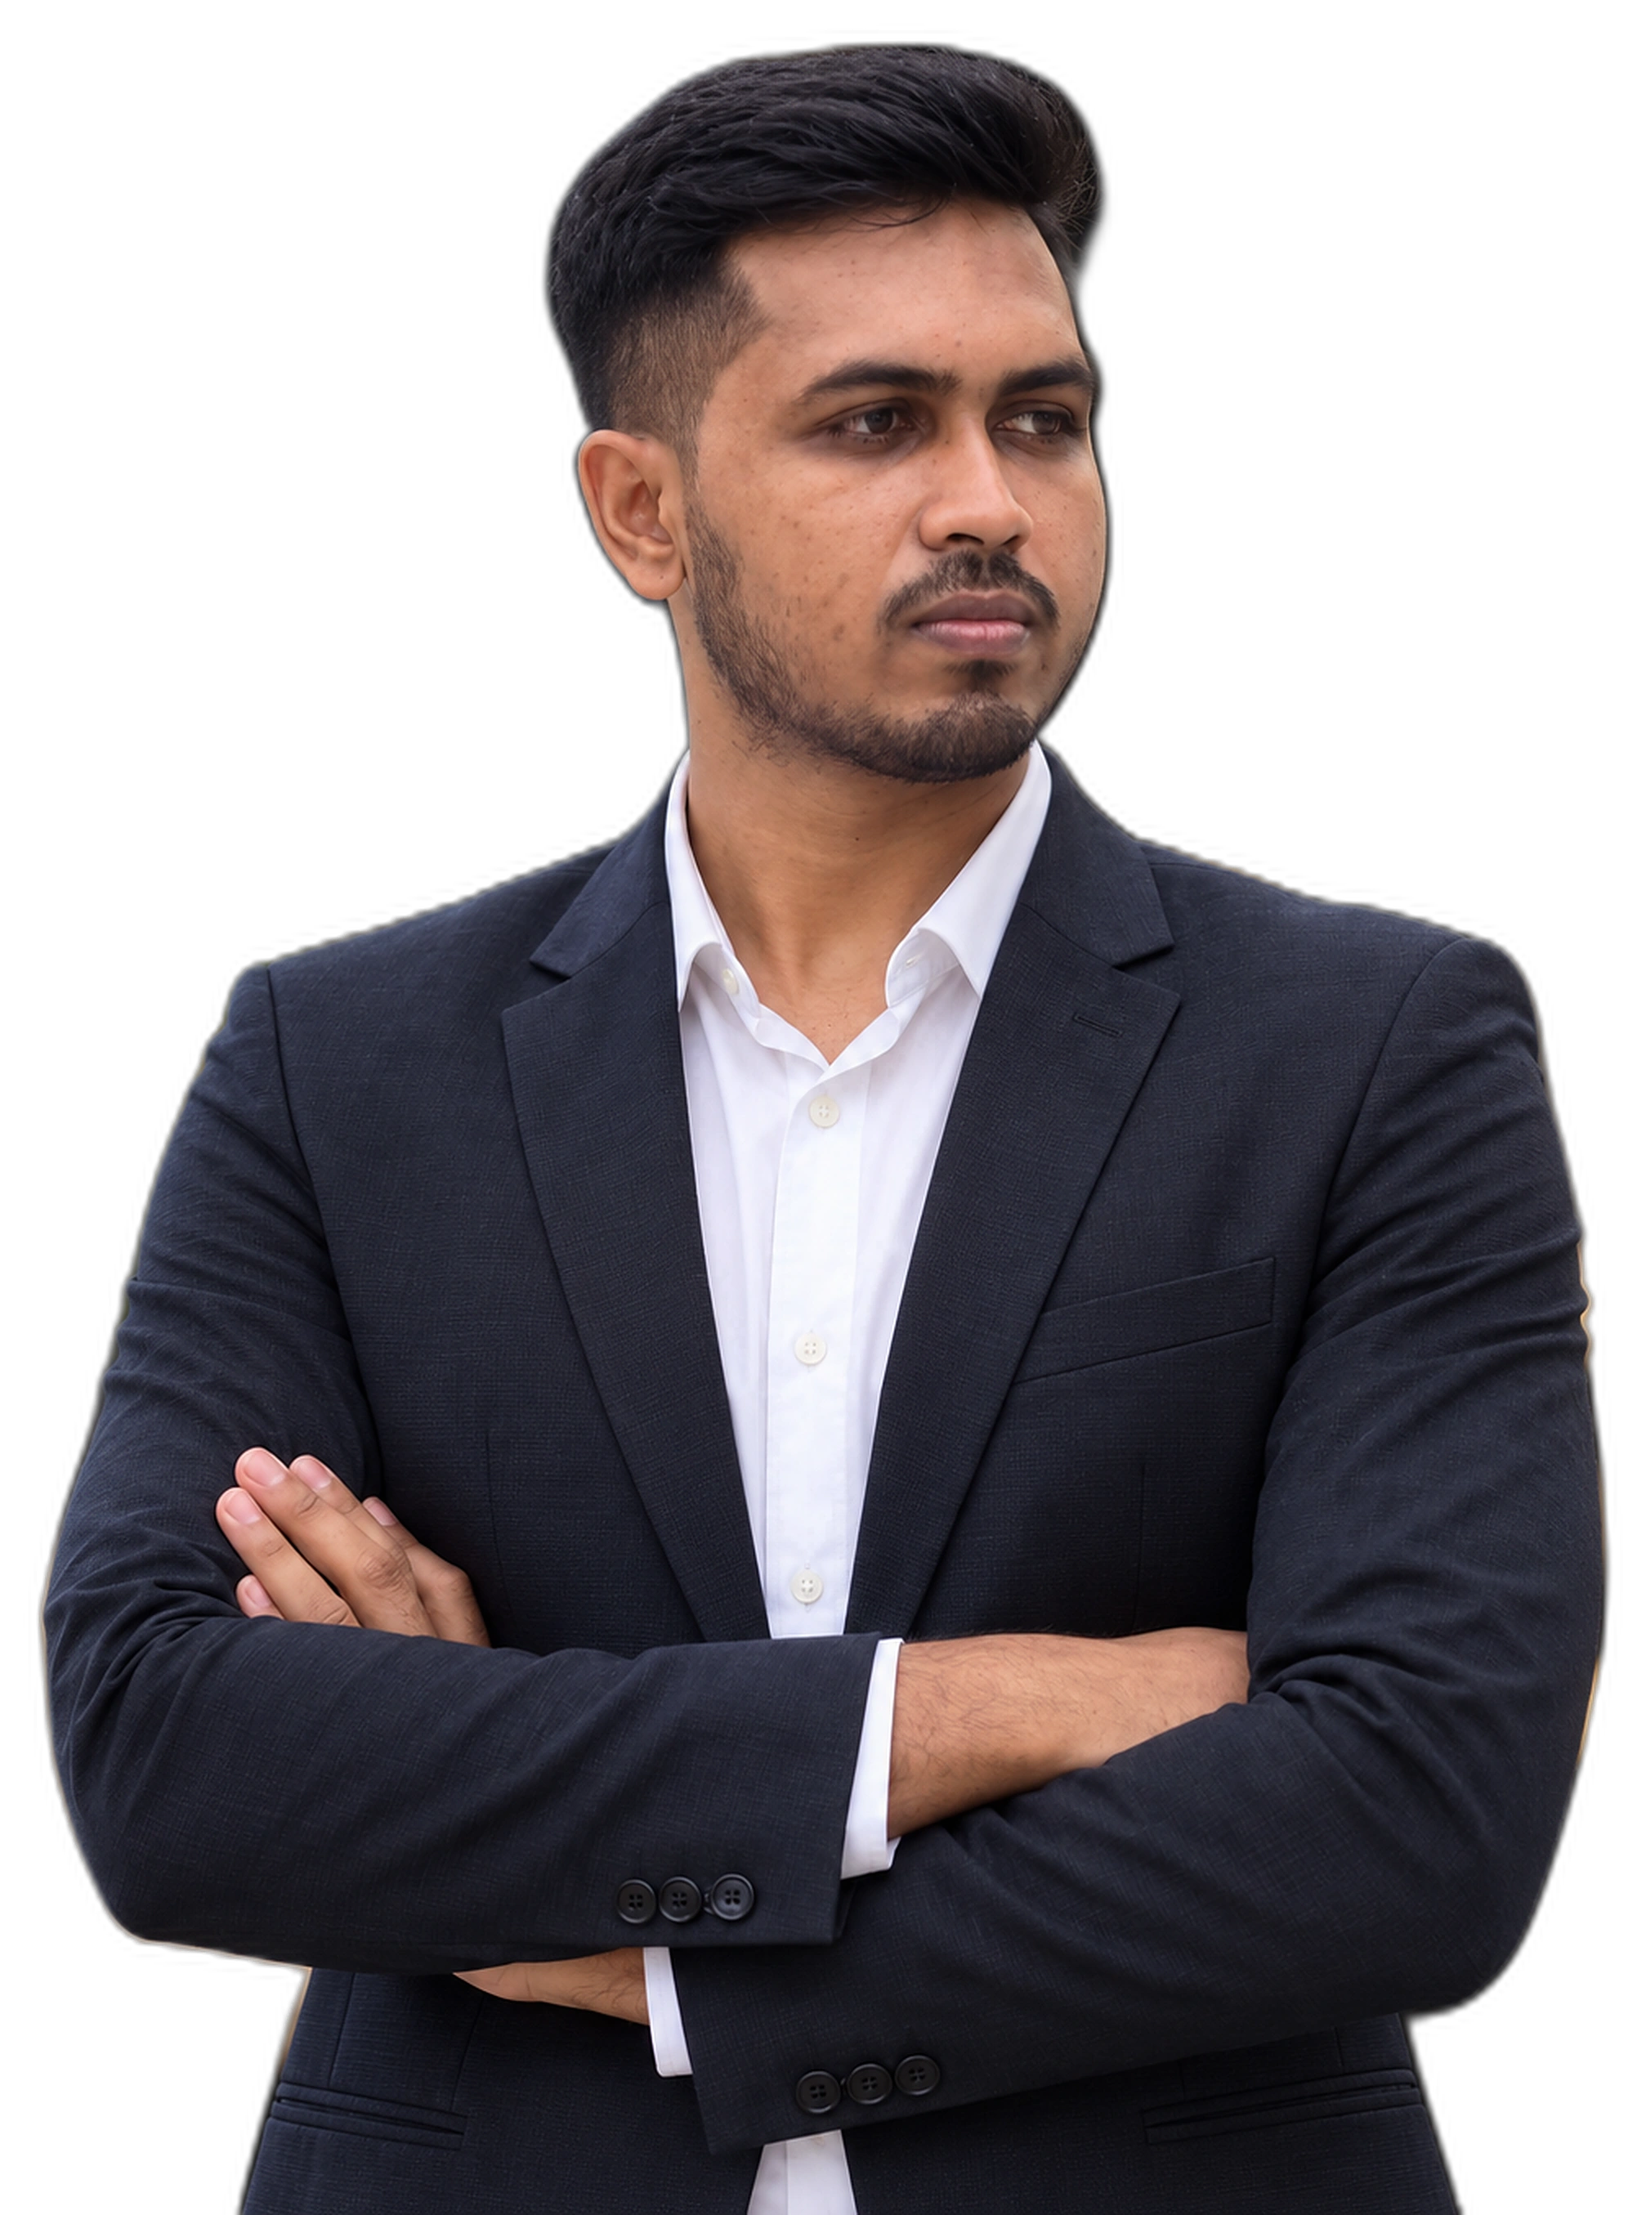
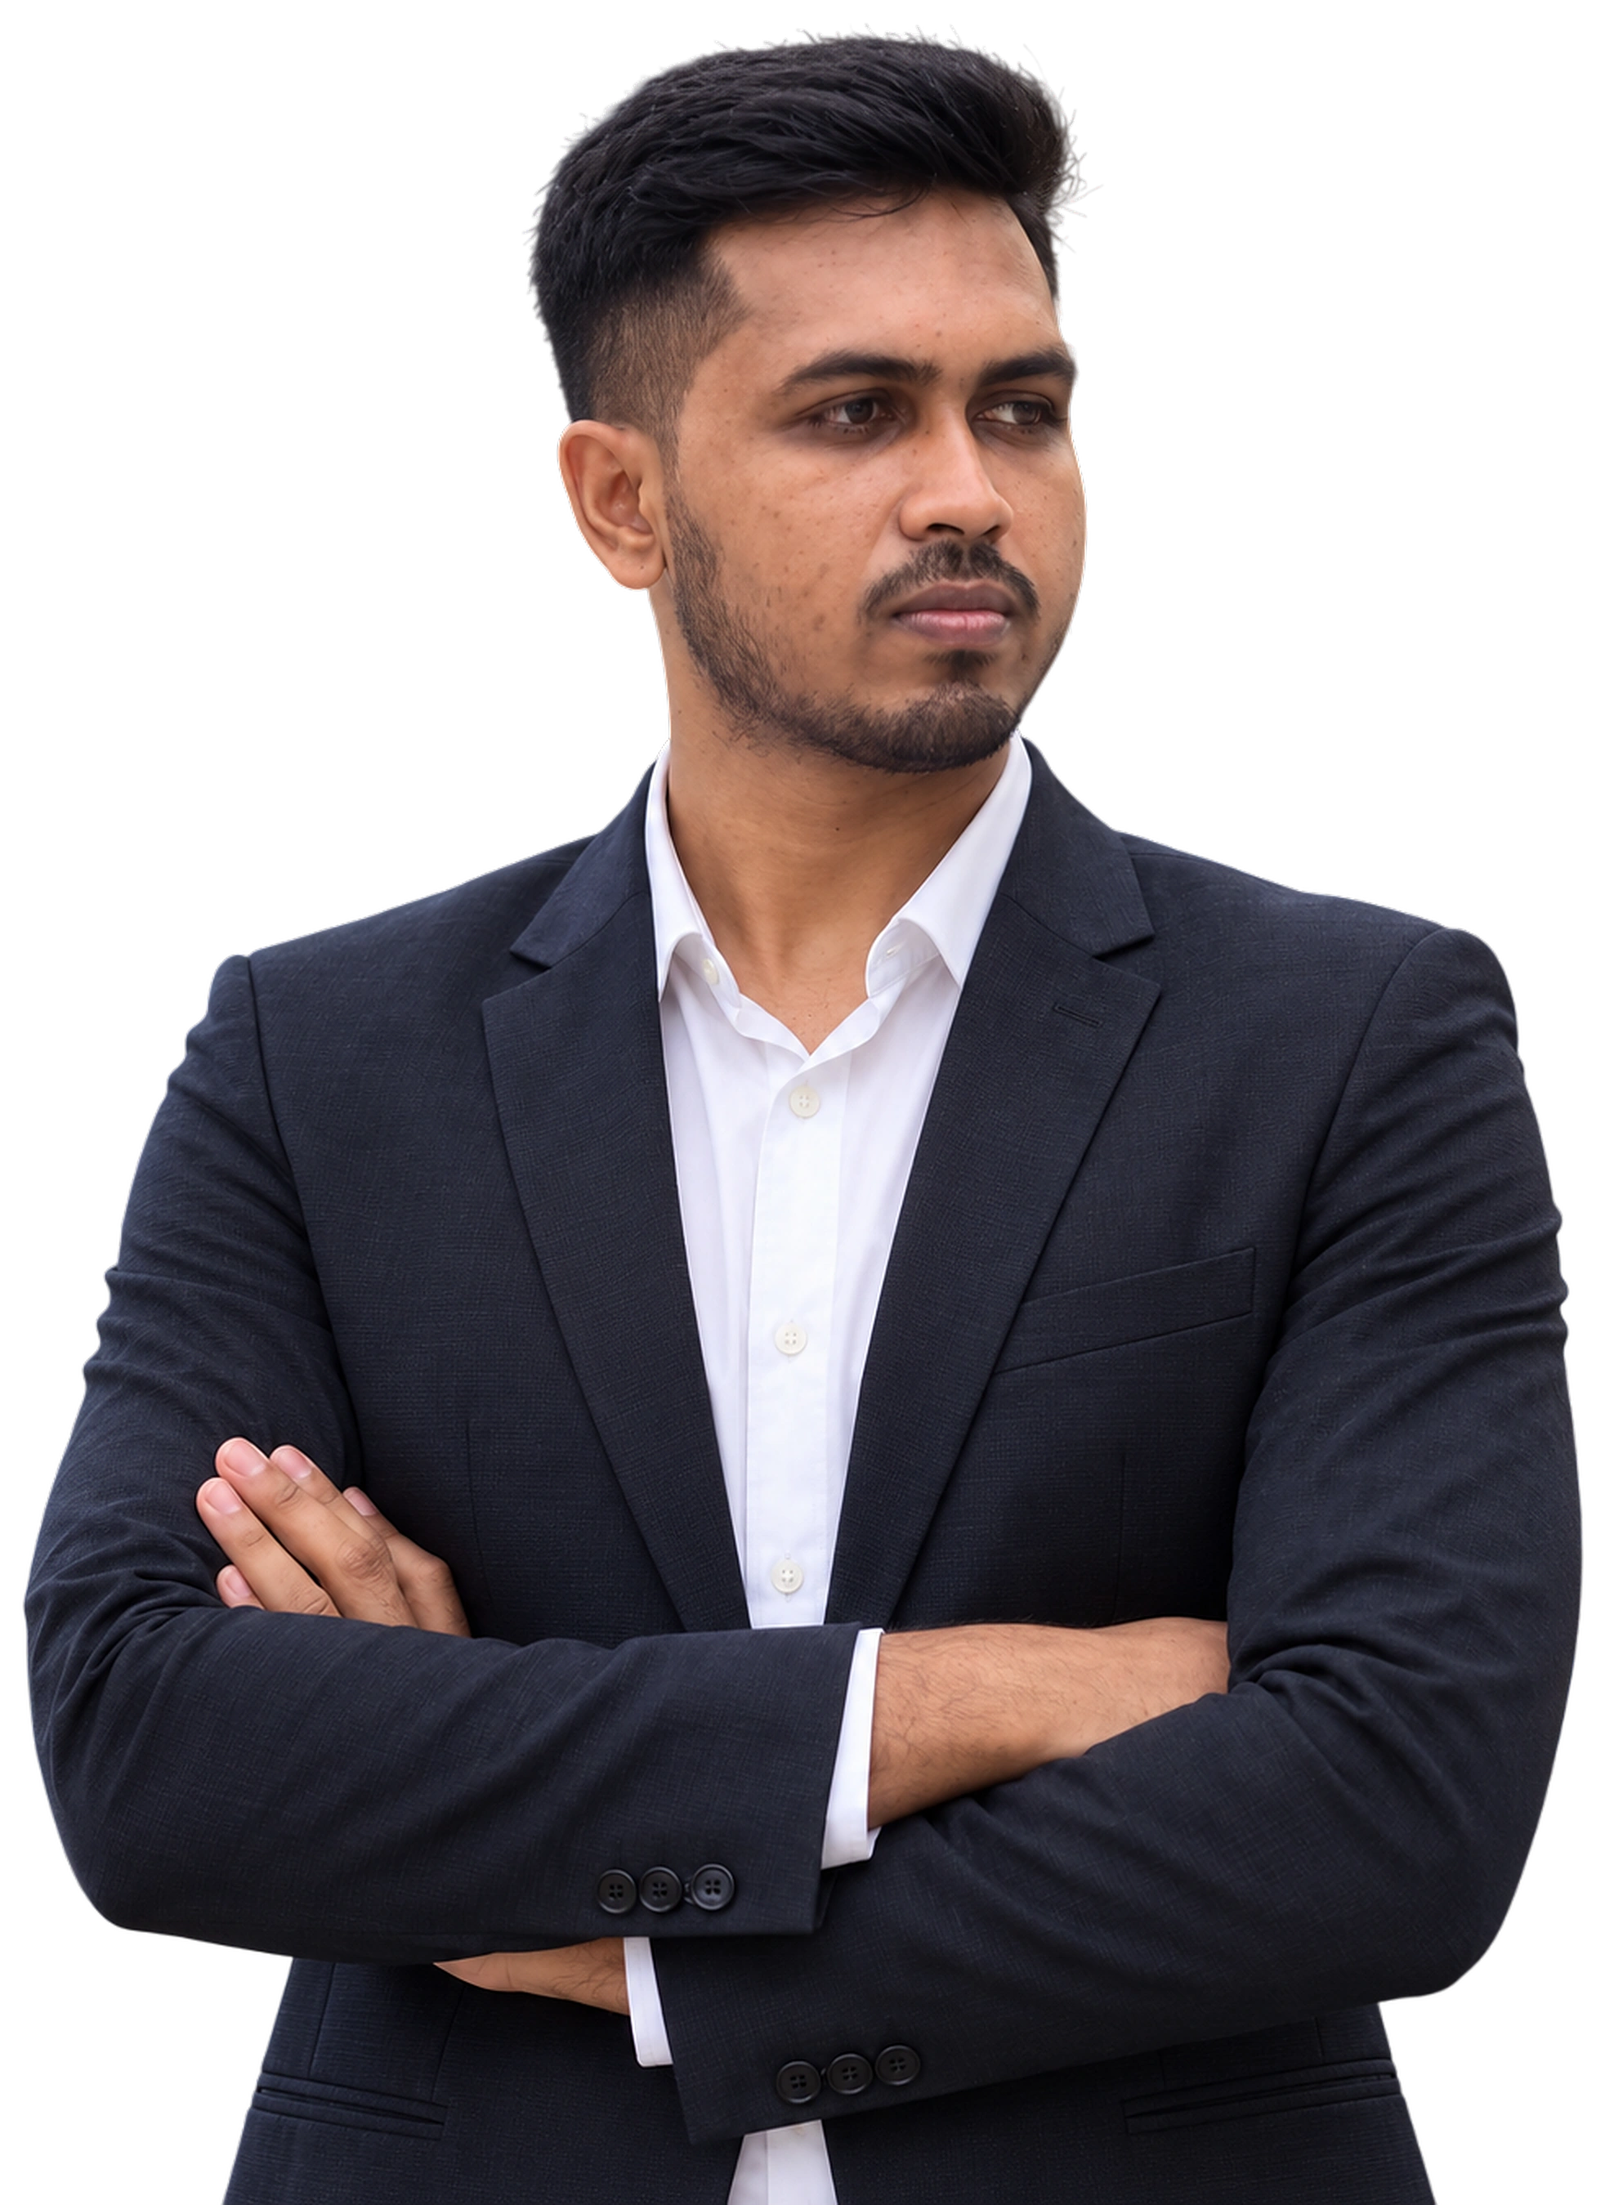
v65: user's Photoroom cutout (1122x1402 RGBA) implemented at full quality — bbox-cropped 982x1349 pristine PNG master, 2x premultiplied Lanczos + unsharp q95 alpha webp (1964x2698), silhouette mask regenerated to match; mobile hero wears the cleaner matte (hair edges), desktop melt untouched; verifi

diff --git a/src/components/portfolio/hero-section.tsx b/src/components/portfolio/hero-section.tsx
@@ -16,10 +16,10 @@ import { scrollToSection } from "./nav";
 
 const EASE = [0.22, 1, 0.36, 1] as const;
 
-/* m-rayhan-headshot-cutout.webp intrinsic size (rembg cutout of the HD
-   portrait source, 2x premultiplied Lanczos + gentle unsharp, q95) */
-const HEADSHOT_W = 2014;
-const HEADSHOT_H = 2710;
+/* m-rayhan-headshot-cutout.webp intrinsic size (user's Photoroom cutout
+   of the HD portrait, 2x premultiplied Lanczos + gentle unsharp, q95) */
+const HEADSHOT_W = 1964;
+const HEADSHOT_H = 2698;
 
 /* ── Desktop card light map ─────────────────────────────────────
    The HD portrait's white lamps (upper-right double strip, left

diff --git a/worklog.md b/worklog.md
@@ -823,3 +823,19 @@ Stage Summary:
 - The approved v47-v50 composition is fully ported to the current design system at HD quality: desktop card = the real photo melted flush into its backdrop with the accent literally re-lighting the photo's lamps; mobile = the HD cutout with silhouette-scoped accent light.
 - Every layer rides --accent-rgb/--primary-rgb, so all 10 rotating hues re-light both stages for free; dark mode adds the suit bounce light.
 - Tagged v64; touched hero-section and added portrait-hd.webp + cutout mask assets (mobile cutout master regenerated).
+
+---
+Task ID: 65 (user's Photoroom cutout, full quality)
+Agent: Main agent
+Task: User supplied their own background-removed export of the HD portrait ("ChatGPT Image Sep 27, 2026, 10_32_28 PM-Photoroom.png", 1122x1402 RGBA) — "ei image implement koro with full quality".
+
+Work Log:
+- File was absent from upload/ on disk; downloaded from the CDN upload URL. Verified a proper alpha matte: 46.7% transparent / 52.2% opaque / 1.14% anti-aliased partial edge, subject bbox x82-1036 y67-1401 (955x1335).
+- Ran the full-quality pipeline on it: bbox crop +14px pad (982x1349) -> pristine PNG master (1.39MB, lossless source of truth) -> 2x premultiplied Lanczos + gentle unsharp -> q95 alpha webp master 1964x2698 (573KB); regenerated the matching silhouette mask asset (23KB) so the face/suit accent tints stay aligned with the new framing.
+- Overwrote the three mobile assets in place (same filenames) and updated the hero's intrinsic dims to 1964x2698; purged .next/cache/images preemptively (v63's stale-optimizer lesson) — new asset served immediately, no cold restart needed.
+- Verified with agent-browser: mobile 390 light (teal draw) + dark (ember draw) — Photoroom's hair matte is visibly cleaner than the previous rembg edge, face natural, silhouette tints + halo + bokeh + waist dissolve all intact, Hello clears the head; desktop 1440 light (green draw) melt card untouched and regression-free; console clean; lint clean.
+
+Stage Summary:
+- The mobile hero now wears the user's own Photoroom cutout at full quality (lossless PNG master -> 2x q95 alpha webp), with the silhouette light system re-aligned to it.
+- Desktop keeps the approved v64 with-background melt composition.
+- Tagged v65; touched hero-section dims and the three cutout assets.
